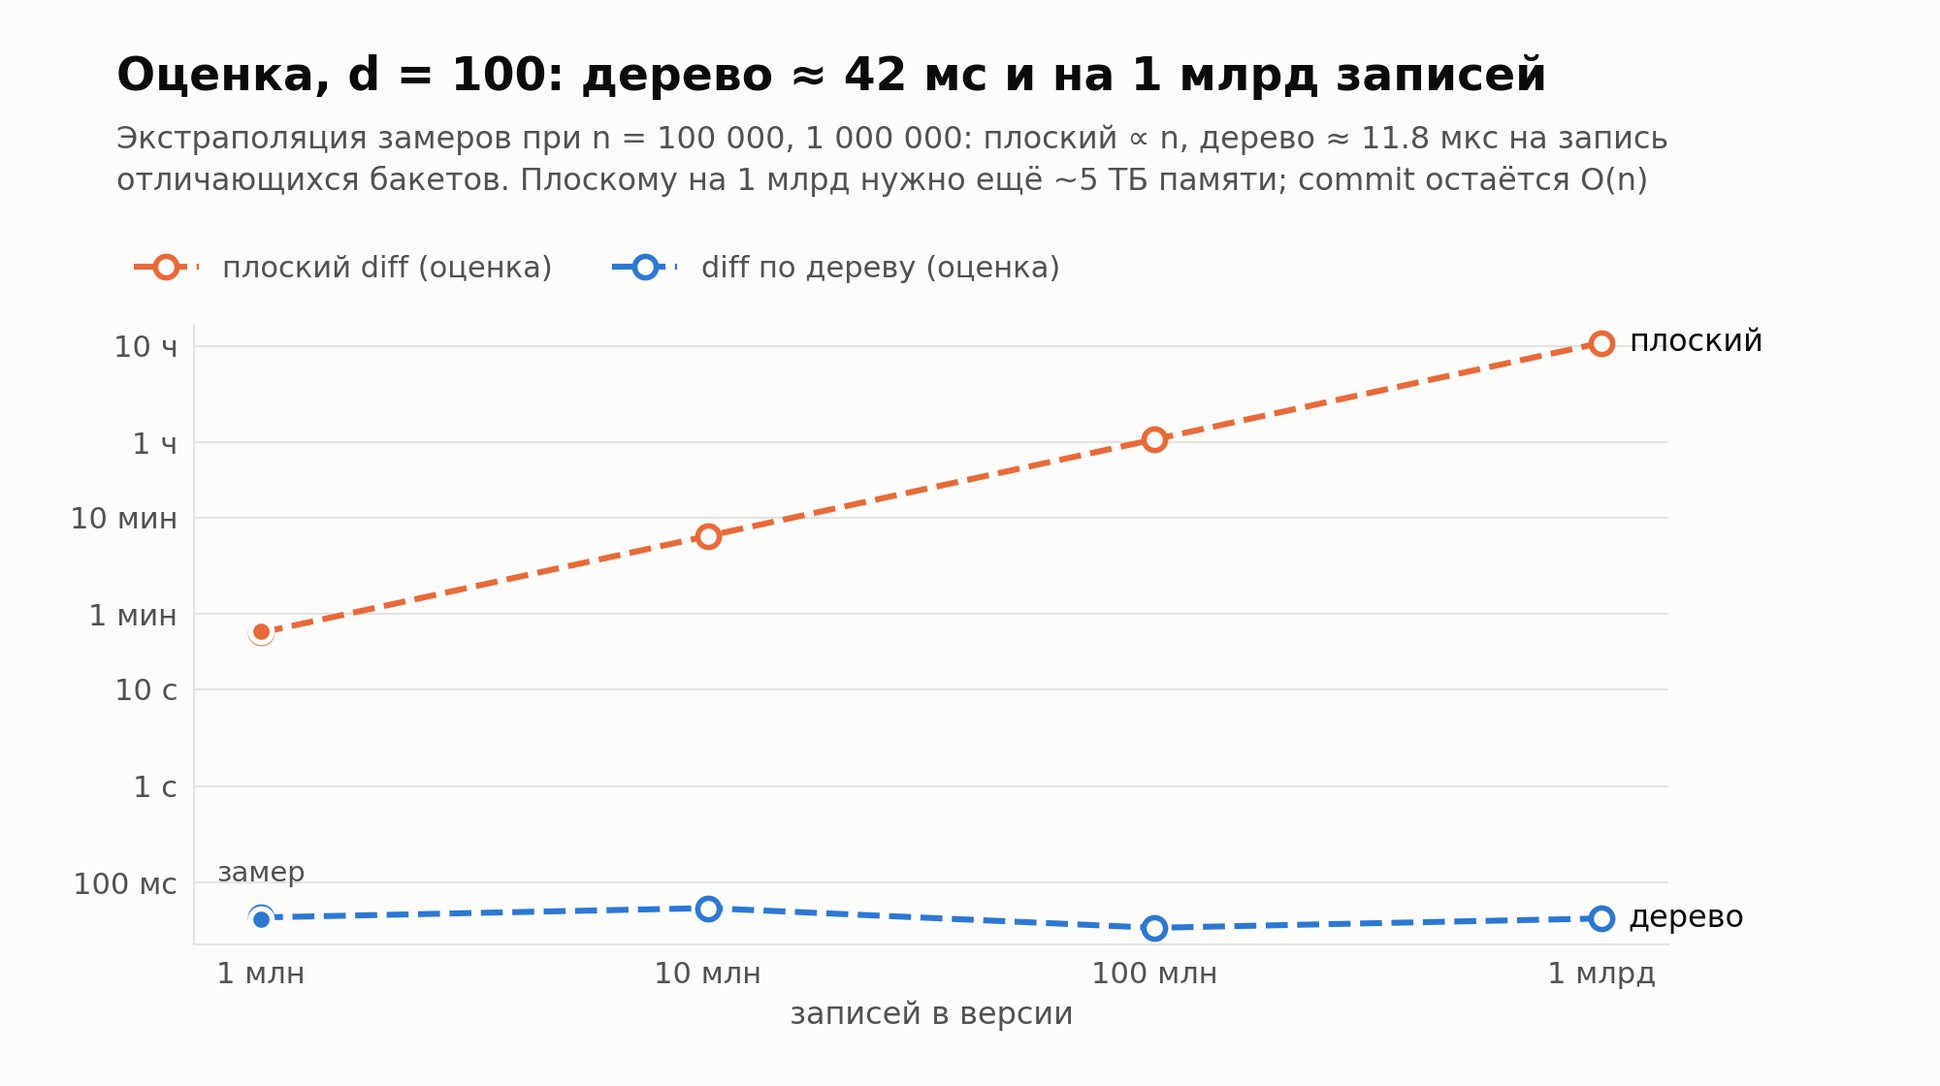
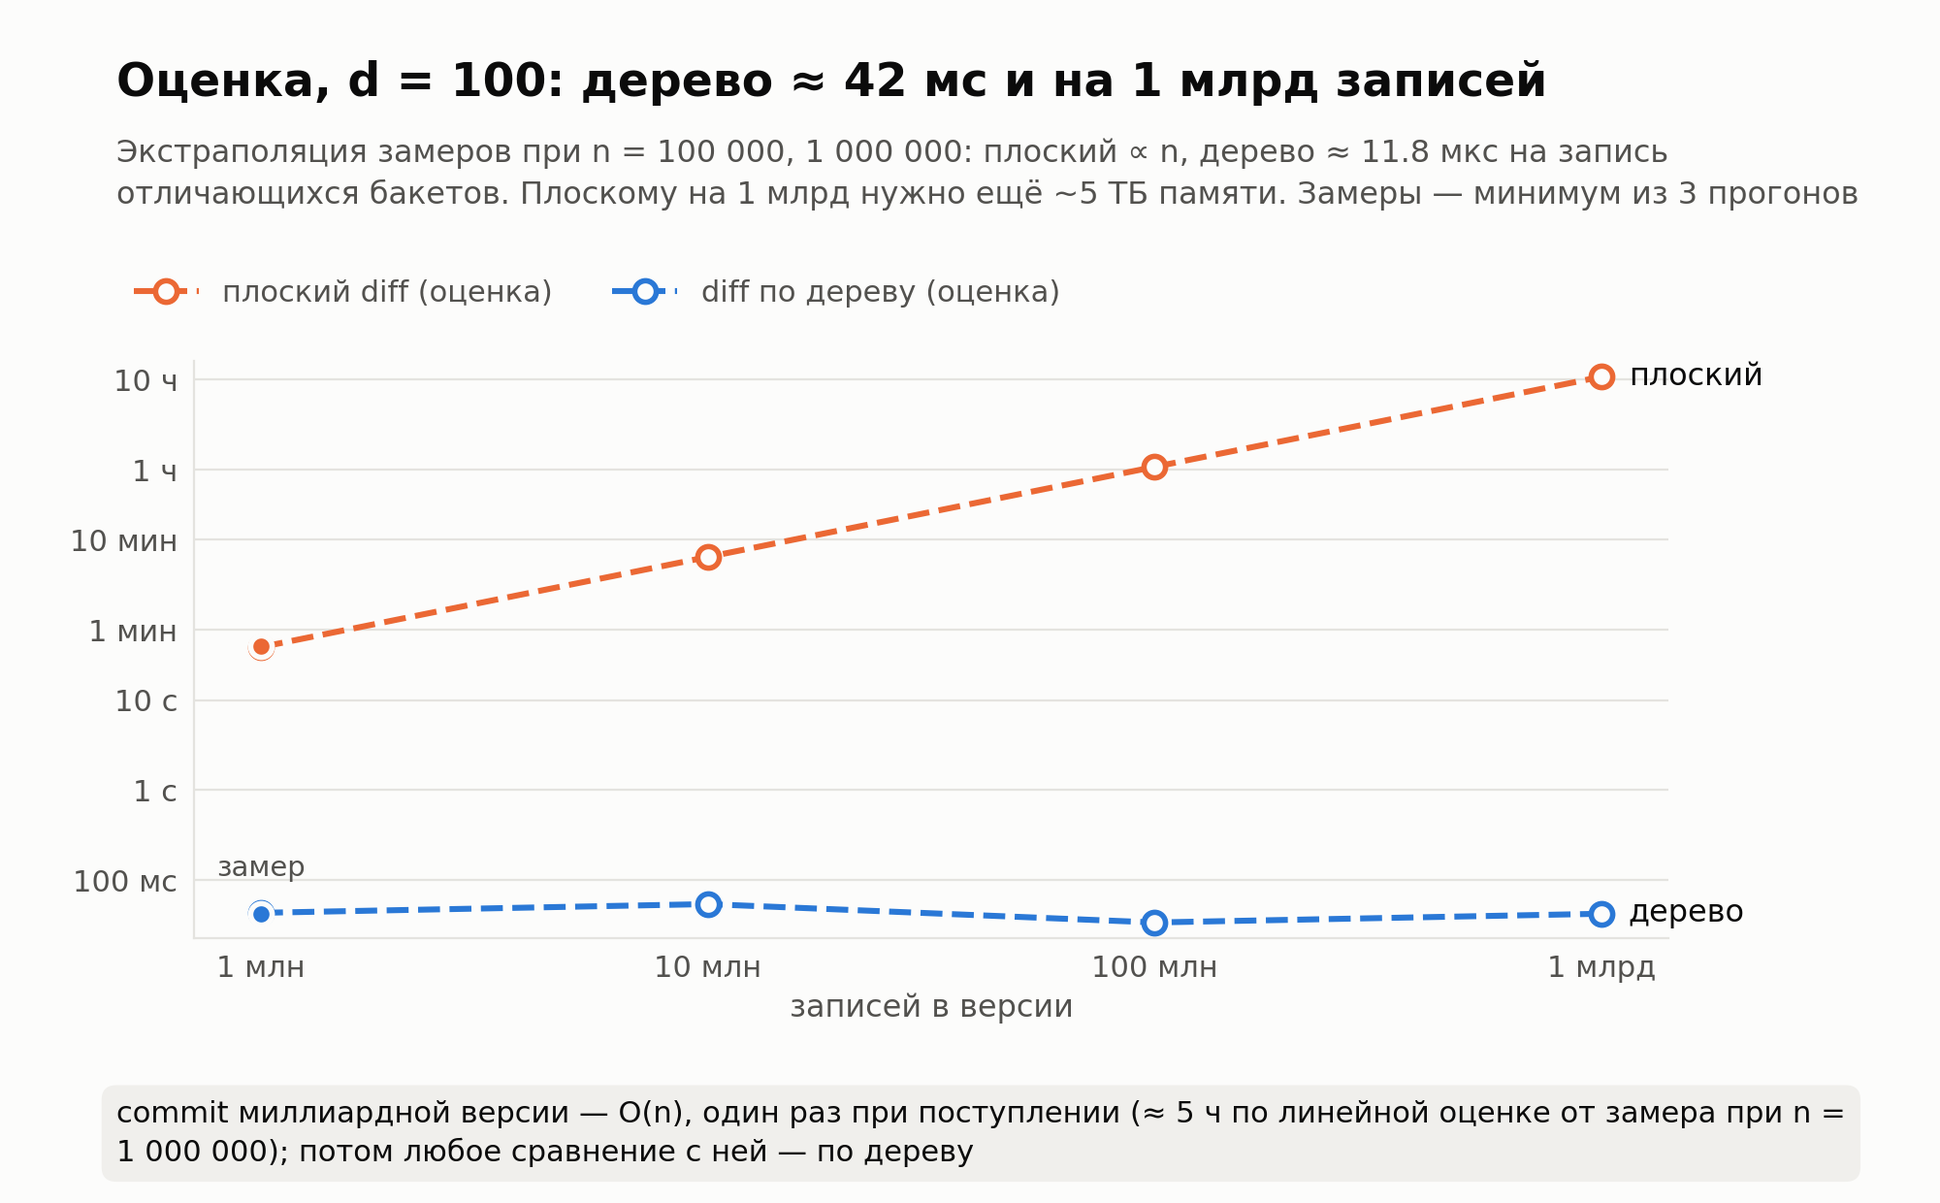
Commit times at 1e6 re-measured: minimum of 3 runs after a warm-up
Commit seconds in bench/results.csv are now the minimum of 3 runs after a
warm-up, n = 1e5 and 1e6, both bucket counts: the first version into an
empty store (d = 0) and each next version on top of v1, with the objects a
run wrote removed before the next one. A speed probe before and after
(flat diff at 1e5: 3.24 s, 3.36 s) shows the machine stayed in its fast
state. At 1e6: first commit 21 s with 4096 buckets, 53 s with 65536 (many
more object files); next versions 16-24 s with either.

time_vs_d.png gives the first and the next-version commit separately;
time_vs_d.png and extrapolation.png say "минимум из 3 прогонов";
extrapolation.png adds "commit миллиардной версии — O(n), один раз при
поступлении" with a linear estimate. summary.md lists the first commit.
Numbers in captions use no-break spaces so a wrapped line keeps them whole.

diff --git a/bench/plots.py b/bench/plots.py
@@ -53,7 +53,7 @@ def values(rows, column, **keys):
 
 
 def num(n):
-    return f"{int(n):,}".replace(",", " ")
+    return f"{int(n):,}".replace(",", "\u00a0")  # no-break space: a wrapped caption keeps the number whole
 
 
 def human_seconds(s):
@@ -124,7 +124,7 @@ def plot_time(rows, out):
     get = lambda method, d, **k: val(rows, "seconds", experiment="flat_vs_tree", n=n, d=d, method=method, **k)
     flat = [get("flat", d) for d in ds]
     tree = [get("tree", d, buckets=b) for d in ds]
-    commit = [get("commit", d, buckets=b) for d in [0] + ds]
+    first, nexts = get("commit", 0, buckets=b), [get("commit", d, buckets=b) for d in ds]
     mid = ds[len(ds) // 2 - 1] if len(ds) > 1 else ds[0]
     fig, ax = plt.subplots(figsize=(10, 6.2), dpi=200)
     close = tree[-1] > flat[-1] / 3  # end labels would collide: push them apart
@@ -136,8 +136,9 @@ def plot_time(rows, out):
     ax.set_xlabel("число изменённых записей", color=INK2, fontsize=11.5)
     style(ax, f"При {mid} отличиях дерево находит их в {get('flat', mid) / get('tree', mid, buckets=b):.0f} раз быстрее",
           f"{num(n)} записей, {num(b)} бакетов по ~{n / b:.0f} записей; плоский diff читает обе версии целиком, "
-          f"дерево — только отличающиеся бакеты",
-          f"commit — один раз на версию, O(n): ≈ {human_seconds(sum(commit) / len(commit))} при n = {num(n)}. "
+          f"дерево — только отличающиеся бакеты. Время — минимум из 3 прогонов после прогрева",
+          f"commit — один раз на версию, O(n): {human_seconds(first)} для первой версии и ≈ "
+          f"{human_seconds(sum(nexts) / len(nexts))} для каждой следующей при n = {num(n)}. "
           f"Сравнение любой пары закоммиченных версий — O(d).")
     fig.savefig(os.path.join(out, "time_vs_d.png"), facecolor=SURFACE)
     plt.close(fig)
@@ -165,6 +166,9 @@ def plot_extrapolation(rows, out, d=100):
     flat_rows = [(n, val(rows, "seconds", experiment="flat_vs_tree", n=n, d=dd, method="flat"))
                  for n in ns for dd in values(rows, "d", experiment="flat_vs_tree", n=n) if dd]
     c_flat = sum(t for _, t in flat_rows) / sum(n for n, _ in flat_rows)
+    commits = [val(rows, "seconds", experiment="flat_vs_tree", n=n0, d=dd, buckets=adaptive_buckets(rows, n0),
+                   method="commit") for dd in values(rows, "d", experiment="flat_vs_tree", n=n0) if dd]
+    c_commit = sum(commits) / len(commits) / n0  # seconds per record of a commit on top of a parent
     # tree: seconds = a * objects read + b * records read (a, b >= 0), fitted on the adaptive runs
     fit = []
     for n in ns:
@@ -186,7 +190,7 @@ def plot_extrapolation(rows, out, d=100):
 
     xs = [10 ** k for k in range(6, 10)]
     flat_est, tree_ests = [c_flat * n for n in xs], [tree_est(n) for n in xs]
-    fig, ax = plt.subplots(figsize=(10, 5.6), dpi=200)
+    fig, ax = plt.subplots(figsize=(10, 6.2), dpi=200)
     line(ax, xs, flat_est, ORANGE, "плоский diff (оценка)", "плоский", dashed=True)
     line(ax, xs, tree_ests, BLUE, "diff по дереву (оценка)", "дерево", dashed=True)
     ax.plot([n0], [val(rows, "seconds", experiment="flat_vs_tree", n=n0, d=d, method="flat")], "o",
@@ -203,7 +207,9 @@ def plot_extrapolation(rows, out, d=100):
           f"Экстраполяция замеров при n = {', '.join(num(n) for n in ns)}: плоский ∝ n, дерево ≈ "
           + (f"{coef[0] * 1e6:.0f} мкс на прочитанный узел + " if coef[0] else "")
           + f"{coef[1] * 1e6:.1f} мкс на запись отличающихся бакетов. Плоскому на 1 млрд нужно ещё ~"
-          f"{2 * BYTES_PER_RECORD * xs[-1] / 1e12:.0f} ТБ памяти; commit остаётся O(n)")
+          f"{2 * BYTES_PER_RECORD * xs[-1] / 1e12:.0f} ТБ памяти. Замеры — минимум из 3 прогонов",
+          f"commit миллиардной версии — O(n), один раз при поступлении (≈ {human_seconds(c_commit * xs[-1])} "
+          f"по линейной оценке от замера при n = {num(n0)}); потом любое сравнение с ней — по дереву")
     fig.savefig(os.path.join(out, "extrapolation.png"), facecolor=SURFACE)
     plt.close(fig)
 
@@ -380,7 +386,10 @@ def summary_table(rows, out):
                 f"| {num(cell(b, 'buckets_read'))} / {num(cell(b, 'records_read'))} "
                 f"| {human_seconds(val(rows, 'seconds', method='commit', buckets=FIXED, **k))} "
                 f"| {human_seconds(val(rows, 'seconds', method='commit', buckets=b, **k))} |")
-        lines.append("")
+        first = lambda bb: human_seconds(val(rows, "seconds", experiment="flat_vs_tree", n=n, d=0,
+                                             method="commit", buckets=bb))
+        lines += ["", f"Первый commit, в пустое хранилище: {first(FIXED)} при 4096 бакетах, {first(b)} при "
+                      f"{num(b)}. Время — минимум из 3 прогонов после прогрева.", ""]
     vs = values(rows, "version", experiment="storage", method="copies", scenario="default")
     n = values(rows, "n", experiment="storage")[0]
     b = next(x for x in values(rows, "buckets", experiment="storage") if x != FIXED)

diff --git a/bench/summary.md b/bench/summary.md
@@ -5,43 +5,47 @@
 | набор | записей | изменений | ожидаемый вердикт | v0: ошибок / вердикт / время | плоский | дерево |
 |---|---|---|---|---|---|---|
 | tiny | 33 | 29 | не доверять ¹ | 23 / не доверять / 0 мс | 0 / не доверять / 1 мс | 0 / не доверять / 2 мс |
-| story | 10 000 | 314 | не доверять | 254 / не доверять / 70 мс | 0 / не доверять / 161 мс | 0 / не доверять / 92 мс |
-| clean | 10 000 | 1 805 | доверять | 1 143 / доверять / 71 мс | 0 / доверять / 175 мс | 0 / доверять / 187 мс |
-| test_relabel | 10 000 | 1 758 | метрики несопоставимы | 1 065 / доверять ✗ / 72 мс | 0 / метрики несопоставимы / 163 мс | 0 / метрики несопоставимы / 203 мс |
-| test_to_train | 10 000 | 2 206 | не переобучать | 1 425 / не доверять ✗ / 75 мс | 0 / не переобучать / 184 мс | 0 / не переобучать / 195 мс |
-| n30000_seed3 | 30 000 | 6 743 | не доверять ¹ | 4 215 / не доверять / 223 мс | 0 / не доверять / 642 мс | 0 / не доверять / 766 мс |
-| обмены имён | 10 000 | 250 | доверять | 550 / метрики несопоставимы ✗ / 72 мс | 0 / доверять / 185 мс | 0 / доверять / 98 мс |
-| шум в id | 10 000 | 488 | доверять | 976 / метрики несопоставимы ✗ / 77 мс | 0 / доверять / 177 мс | 0 / доверять / 123 мс |
-| перенос train→test | 10 000 | 204 | не доверять | 0 / метрики несопоставимы ✗ / 79 мс | 0 / не доверять / 171 мс | 0 / не доверять / 66 мс |
-| смена меток в test | 10 000 | 49 | метрики несопоставимы | 0 / доверять ✗ / 72 мс | 0 / метрики несопоставимы / 169 мс | 0 / метрики несопоставимы / 16 мс |
+| story | 10 000 | 314 | не доверять | 254 / не доверять / 70 мс | 0 / не доверять / 161 мс | 0 / не доверять / 92 мс |
+| clean | 10 000 | 1 805 | доверять | 1 143 / доверять / 71 мс | 0 / доверять / 175 мс | 0 / доверять / 187 мс |
+| test_relabel | 10 000 | 1 758 | метрики несопоставимы | 1 065 / доверять ✗ / 72 мс | 0 / метрики несопоставимы / 163 мс | 0 / метрики несопоставимы / 203 мс |
+| test_to_train | 10 000 | 2 206 | не переобучать | 1 425 / не доверять ✗ / 75 мс | 0 / не переобучать / 184 мс | 0 / не переобучать / 195 мс |
+| n30000_seed3 | 30 000 | 6 743 | не доверять ¹ | 4 215 / не доверять / 223 мс | 0 / не доверять / 642 мс | 0 / не доверять / 766 мс |
+| обмены имён | 10 000 | 250 | доверять | 550 / метрики несопоставимы ✗ / 72 мс | 0 / доверять / 185 мс | 0 / доверять / 98 мс |
+| шум в id | 10 000 | 488 | доверять | 976 / метрики несопоставимы ✗ / 77 мс | 0 / доверять / 177 мс | 0 / доверять / 123 мс |
+| перенос train→test | 10 000 | 204 | не доверять | 0 / метрики несопоставимы ✗ / 79 мс | 0 / не доверять / 171 мс | 0 / не доверять / 66 мс |
+| смена меток в test | 10 000 | 49 | метрики несопоставимы | 0 / доверять ✗ / 72 мс | 0 / метрики несопоставимы / 169 мс | 0 / метрики несопоставимы / 16 мс |
 
 Ожидаемый вердикт задан в пресете генератора (`expected_verdict`); ¹ — у пресета его нет, он вычислен по truth правилами `make_verdict`.
 
 # 4096 бакетов против ~n/16
 
-## Время diff, n = 100 000 (8 192 бакетов в адаптивном варианте)
+## Время diff, n = 100 000 (8 192 бакетов в адаптивном варианте)
 
 | d | плоский | дерево 4096 | дерево ~n/16 | бакетов / записей прочитано, 4096 | бакетов / записей прочитано, ~n/16 | commit 4096 | commit ~n/16 |
 |---|---|---|---|---|---|---|---|
-| 10 | 3.2 с | 6 мс | 4 мс | 24 / 608 | 24 / 324 | 2.6 с | 2.7 с |
-| 100 | 3.2 с | 51 мс | 32 мс | 230 / 5 820 | 230 / 2 994 | 2.8 с | 2.5 с |
-| 1 000 | 3.2 с | 475 мс | 278 мс | 1 988 / 49 829 | 2 108 / 27 331 | 2.8 с | 3.1 с |
-| 10 000 | 3.2 с | 2.5 с | 2.0 с | 7 638 / 187 750 | 12 294 / 154 308 | 5.0 с | 6.2 с |
+| 10 | 3.2 с | 6 мс | 4 мс | 24 / 608 | 24 / 324 | 1.4 с | 1.5 с |
+| 100 | 3.2 с | 51 мс | 32 мс | 230 / 5 820 | 230 / 2 994 | 1.5 с | 1.6 с |
+| 1 000 | 3.2 с | 475 мс | 278 мс | 1 988 / 49 829 | 2 108 / 27 331 | 1.7 с | 1.9 с |
+| 10 000 | 3.2 с | 2.5 с | 2.0 с | 7 638 / 187 750 | 12 294 / 154 308 | 2.5 с | 3.5 с |
 
-## Время diff, n = 1 000 000 (65 536 бакетов в адаптивном варианте)
+Первый commit, в пустое хранилище: 2.5 с при 4096 бакетах, 4.0 с при 8 192. Время — минимум из 3 прогонов после прогрева.
+
+## Время diff, n = 1 000 000 (65 536 бакетов в адаптивном варианте)
 
 | d | плоский | дерево 4096 | дерево ~n/16 | бакетов / записей прочитано, 4096 | бакетов / записей прочитано, ~n/16 | commit 4096 | commit ~n/16 |
 |---|---|---|---|---|---|---|---|
-| 10 | 38.5 с | 44 мс | 6 мс | 24 / 5 742 | 24 / 418 | 29.5 с | 19.1 с |
-| 100 | 39.5 с | 471 мс | 42 мс | 224 / 54 684 | 230 / 3 672 | 30.5 с | 20.7 с |
-| 1 000 | 38.6 с | 6.8 с | 411 мс | 1 978 / 484 831 | 2 256 / 36 315 | 30.9 с | 20.4 с |
-| 10 000 | 40.8 с | 27.3 с | 4.9 с | 7 678 / 1 875 896 | 20 928 / 333 532 | 33.1 с | 23.5 с |
+| 10 | 38.5 с | 44 мс | 6 мс | 24 / 5 742 | 24 / 418 | 16.7 с | 16.0 с |
+| 100 | 39.5 с | 471 мс | 42 мс | 224 / 54 684 | 230 / 3 672 | 16.9 с | 17.2 с |
+| 1 000 | 38.6 с | 6.8 с | 411 мс | 1 978 / 484 831 | 2 256 / 36 315 | 16.3 с | 17.9 с |
+| 10 000 | 40.8 с | 27.3 с | 4.9 с | 7 678 / 1 875 896 | 20 928 / 333 532 | 21.8 с | 23.9 с |
 
-## Хранилище, 10 версий по 100 000 записей
+Первый commit, в пустое хранилище: 21.2 с при 4096 бакетах, 52.9 с при 65 536. Время — минимум из 3 прогонов после прогрева.
+
+## Хранилище, 10 версий по 100 000 записей
 
 | изменений за версию | бакетов | объекты, МБ | объектов, шт. | du, МБ | JSONL-копии, МБ | gzip-копии, МБ |
 |---|---|---|---|---|---|---|
-| ~1% | 4 096 | 27.9 | 32 845 | 128 | 200 | 26.4 |
-| ~1% | 8 192 | 26.2 | 44 923 | 175 | 200 | 26.4 |
-| ~20% | 4 096 | 65.4 | 79 845 | 312 | 211 | 29.4 |
-| ~20% | 8 192 | 74.1 | 141 423 | 552 | 211 | 29.4 |
+| ~1% | 4 096 | 27.9 | 32 845 | 128 | 200 | 26.4 |
+| ~1% | 8 192 | 26.2 | 44 923 | 175 | 200 | 26.4 |
+| ~20% | 4 096 | 65.4 | 79 845 | 312 | 211 | 29.4 |
+| ~20% | 8 192 | 74.1 | 141 423 | 552 | 211 | 29.4 |

diff --git a/README.md b/README.md
@@ -322,11 +322,16 @@ python bench/plots.py                                                       # ->
 - `collisions`: hash_bits ∈ {16, 20, 24, 32, 64}, n = 1e5; переименования из diff, которых нет в
   truth (ложные), пропущенные и неоднозначные.
 
+Времена в `flat_vs_tree` в `results.csv` — минимум из 3 прогонов после прогрева: на этом ноутбуке
+скорость плавает до 1,7 раза, а помехи только замедляют. Сам `bench.py` делает один прогон; минимумы
+сняты отдельным перезамером.
+
 `bench/plots.py` рисует по одной мысли на график: `time_vs_d.png` (время от d при n = 1e6, с
 подписью «commit — O(n) один раз на версию, сравнение пары — O(d)»), `extrapolation.png` (оценка
 для n = 1e6 … 1e9 при d = 100: плоский — линейно по замерам, дерево — по модели «время = a·объекты +
 b·записи» с a, b ≥ 0, подобранной на замерах по относительной ошибке; сейчас a = 0 и выходит
-≈ 12 мкс на прочитанную запись), `storage.png` (хранилище против 10 gzip-копий), `collisions.png`;
+≈ 12 мкс на прочитанную запись; строка «commit миллиардной версии — O(n), один раз при поступлении»),
+`storage.png` (хранилище против 10 gzip-копий), `collisions.png`;
 `breaks.png` («что ломается в v0»: по сценарию — верно найденные изменения, лишние строки, вердикт,
 утечки для v0 и нашего diff); и пишет `summary.md` — таблицы «v0 / плоский / дерево» и «4096 бакетов
 против ~n/16».
